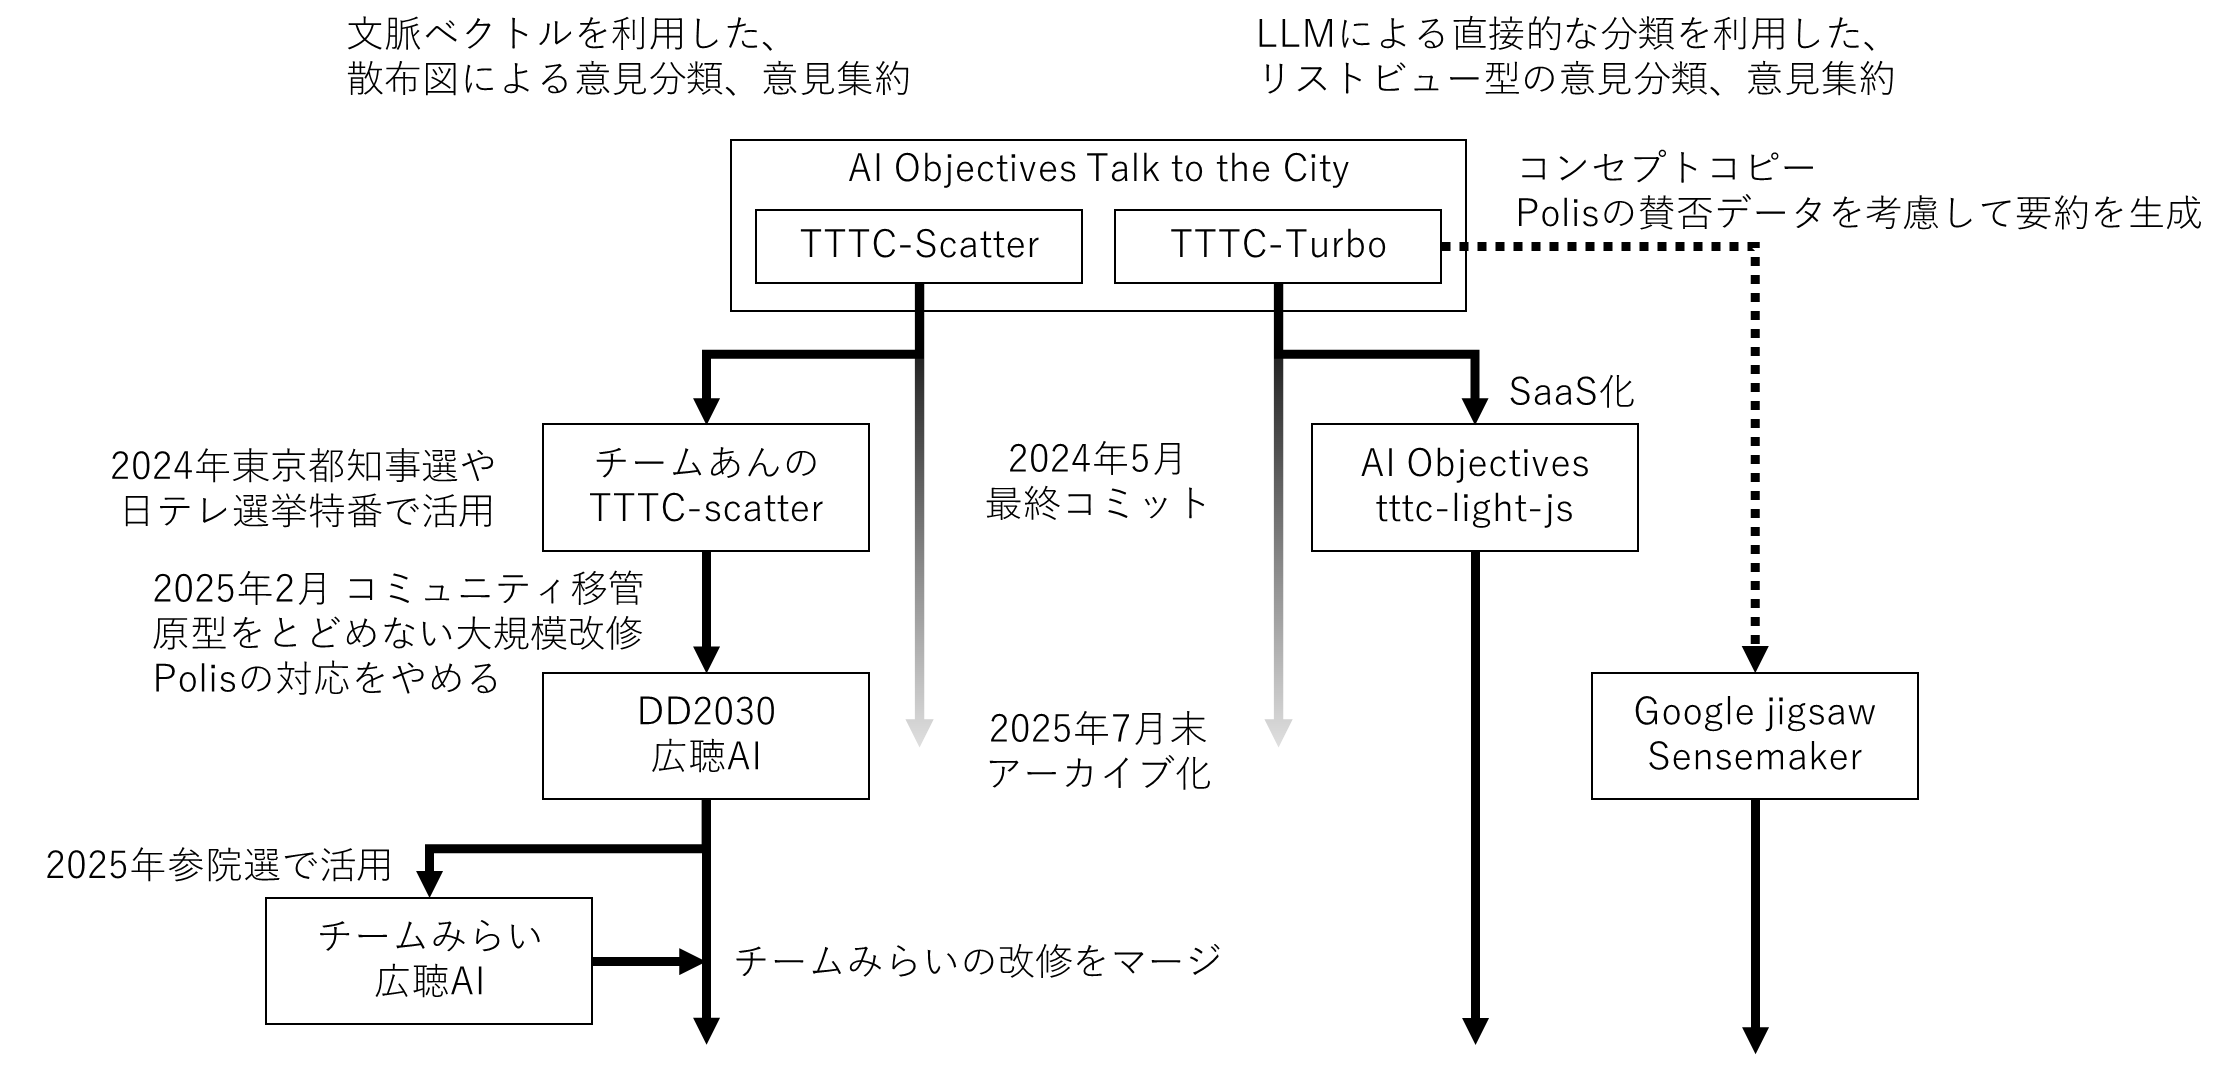
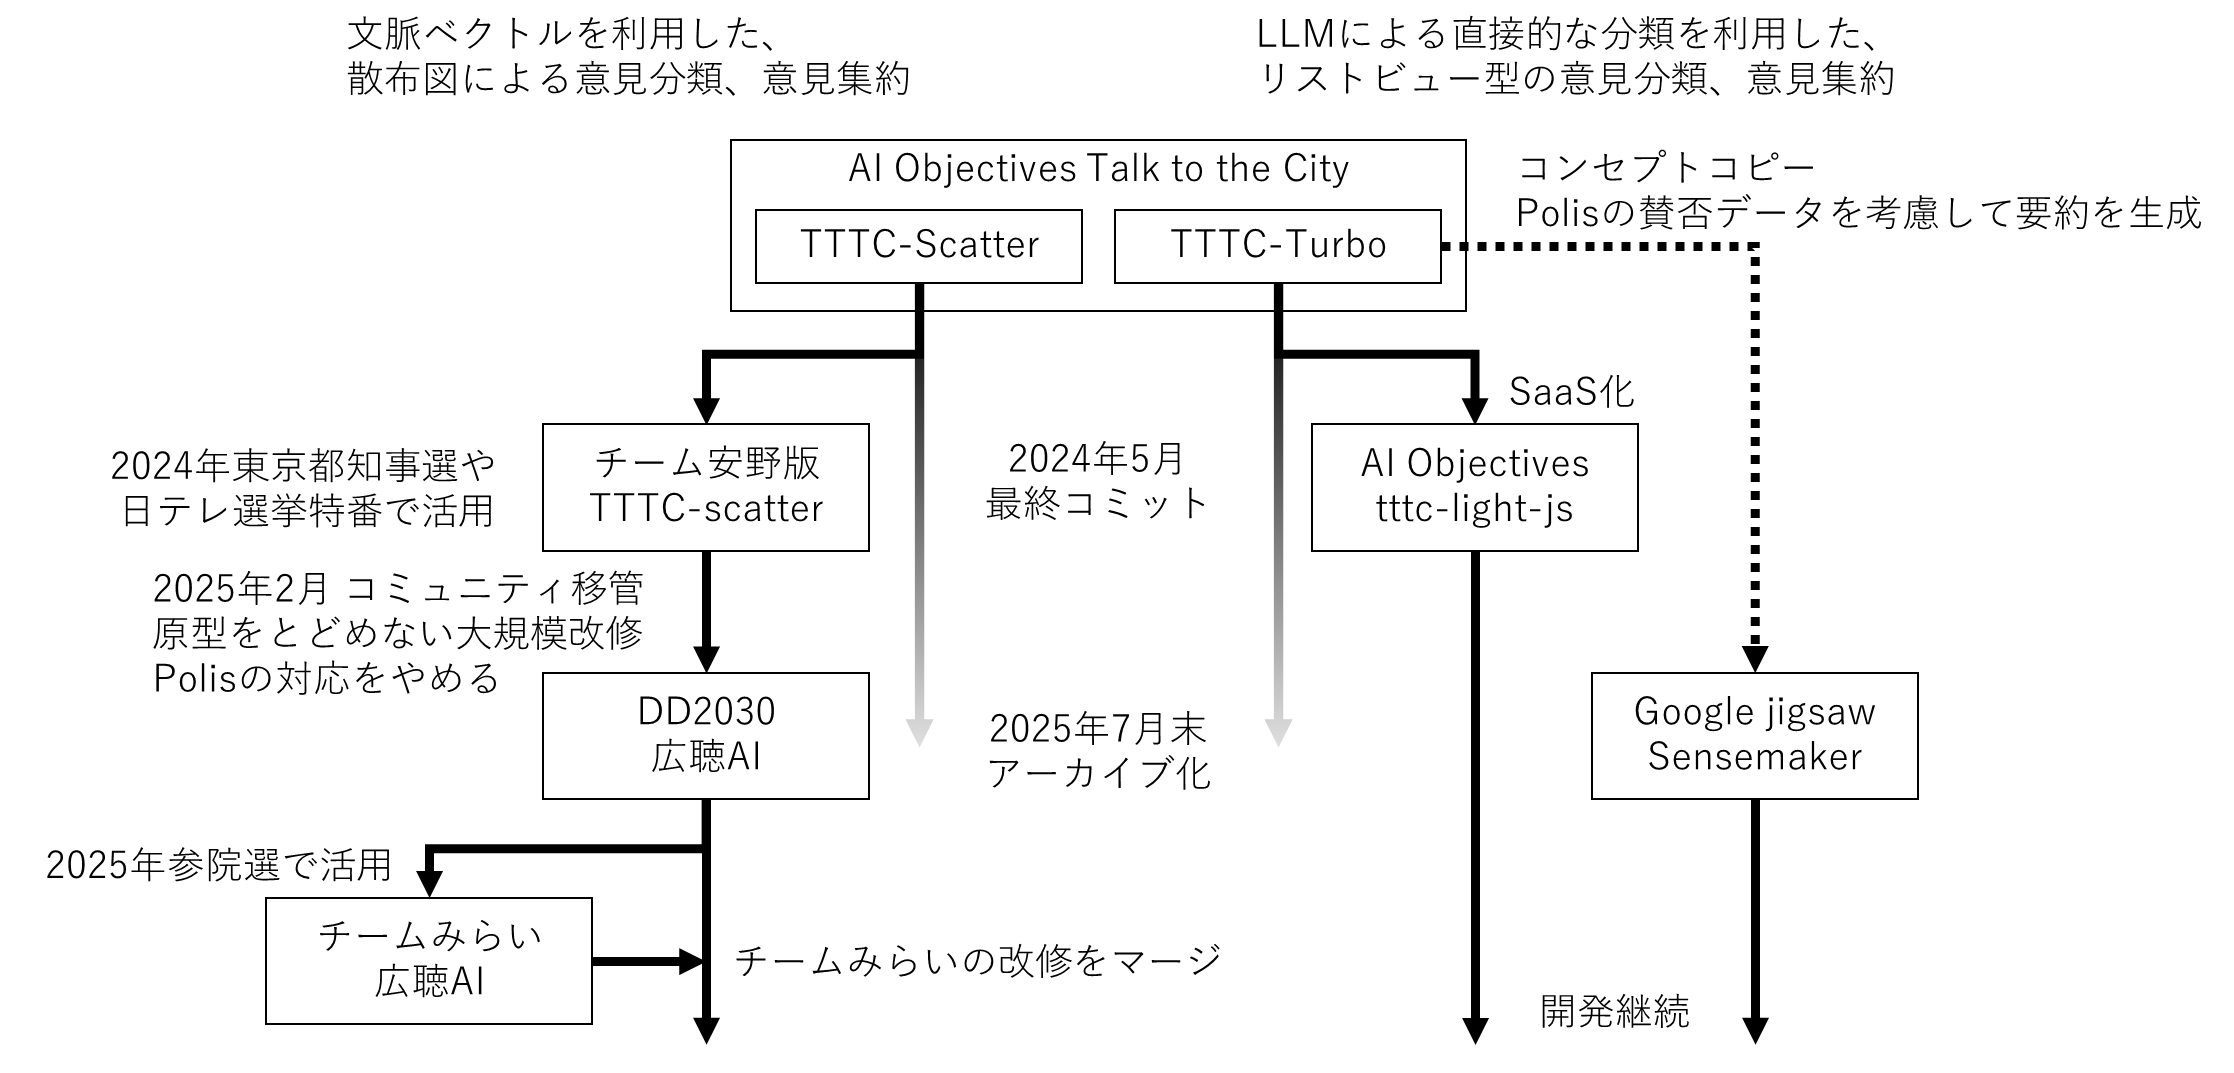
DD2030章・ブーツ章・Democracy X章のインプレス校正対応
- 10_00 DD2030章(共著: tokoroten/西尾/sumino):
  - 系統図(images/10_kouchouai_technical_genealogy.png)を更新し、各ツールに開発継続/アーカイブのステータスと機能概要の吹き出しを追加 (ch07-01)
  - コマンドライン・コミットの脚注追加 (ch07-02, ch07-07)
  - フォーク=「分身」の利点(本家の改善取り込み+独自進化)を強調 (ch07-03)
  - K-meansトレードオフを「丸い形のかたまり」「見た目のまとまり」と平易化 (ch07-04)
  - ソースリンク機能の重要性を強化(検証手段がないとAIの出力を鵜呑みするしかなくなる、トレーサビリティをもたらす改善) (ch07-06)
  - 自治体導入の障壁を4つの箇条書きに整理(インセンティブ不足/首長と現場のギャップ/人事異動/エンジニア体制) (ch07-09)
- 10_01 株式会社ブーツ章: サイレントマジョリティの脚注追加 (ch11-01, 有賀啓介担当)
- 10_04 Democracy X章: ラストワンマイルの脚注追加 (ch11-02, 高手智基担当)

diff --git a/10_01_株式会社ブーツ.md b/10_01_株式会社ブーツ.md
@@ -70,7 +70,9 @@
 #### 住民の声の収集機会の減少の観点
 
 分析・取り纏めの処理の工数が大きいが故に、意見収集の機会自体を多くとることができなかったり、分析しやすい選択式の設問が住民調査やアンケートの主体になりがちになる。
-また、大規模な住民アンケート等の調査よりも、対話集会やワークショップ等の限られたイベントを通して住民の声を聴くことが多くなり、そうした機会では会の設計上、発言者数が限られることから住民の全体感ある声の収集が難しく、いわゆる"サイレントマジョリティ"の声をきめ細かく理解して適切な行政施策に反映することの障壁となる。
+また、大規模な住民アンケート等の調査よりも、対話集会やワークショップ等の限られたイベントを通して住民の声を聴くことが多くなり、そうした機会では会の設計上、発言者数が限られることから住民の全体感ある声の収集が難しく、いわゆる"サイレントマジョリティ"[^silent_majority]の声をきめ細かく理解して適切な行政施策に反映することの障壁となる。
+
+[^silent_majority]: サイレントマジョリティ(silent majority)。声を上げないが多数派を占める人々。集会やSNSで積極的に発言する一部の声(ノイジーマイノリティ)に対して、明確に意見を表明しないが多数を占める層を指す。1969年に米国ニクソン大統領が演説で用いて広まった政治用語。
 
 ### ブロードリスニング事例からの示唆
 

diff --git a/10_04_Democracy X.md b/10_04_Democracy X.md
@@ -16,7 +16,9 @@ Democracy Xの活動領域は、大きく3つに分かれます。
 2. **選挙DX支援**：ブロードリスニングにとどまらず、SNS運用やデジタル広報、ウェブサイト構築など、選挙に関するデジタル実務の整備を支援する
 3. **政策立案支援**：AIを活用したマニフェスト策定や政策分析を通じて、データに基づく政策立案を支援する
 
-DD2030をはじめとするオープンソースのツールは強力ですが、ツールが存在するだけでは地域に届きません。候補者や自治体との接点を作り、デジタル技術を現場の文脈に合わせて導入し、運用を伴走する存在が必要です。Democracy Xは、その「ラストワンマイル」を担っています。選挙や行政だけでなく、民間企業における合意形成のコンサルティングも視野に入れています。
+DD2030をはじめとするオープンソースのツールは強力ですが、ツールが存在するだけでは地域に届きません。候補者や自治体との接点を作り、デジタル技術を現場の文脈に合わせて導入し、運用を伴走する存在が必要です。Democracy Xは、その「ラストワンマイル」[^last_one_mile]を担っています。選挙や行政だけでなく、民間企業における合意形成のコンサルティングも視野に入れています。
+
+[^last_one_mile]: ラストワンマイル(last one mile)。元は通信や物流の用語で、基地局や物流拠点から最終的な利用者(家庭・店舗)までの最後の区間を指す。サービス全体の品質は、この最後の区間をどう設計するかで決まることが多い。ここから転じて、「優れた技術や仕組みを実際の利用者まで届ける最後の工程」を比喩的に指して使われる。
 
 ### メンバー
 